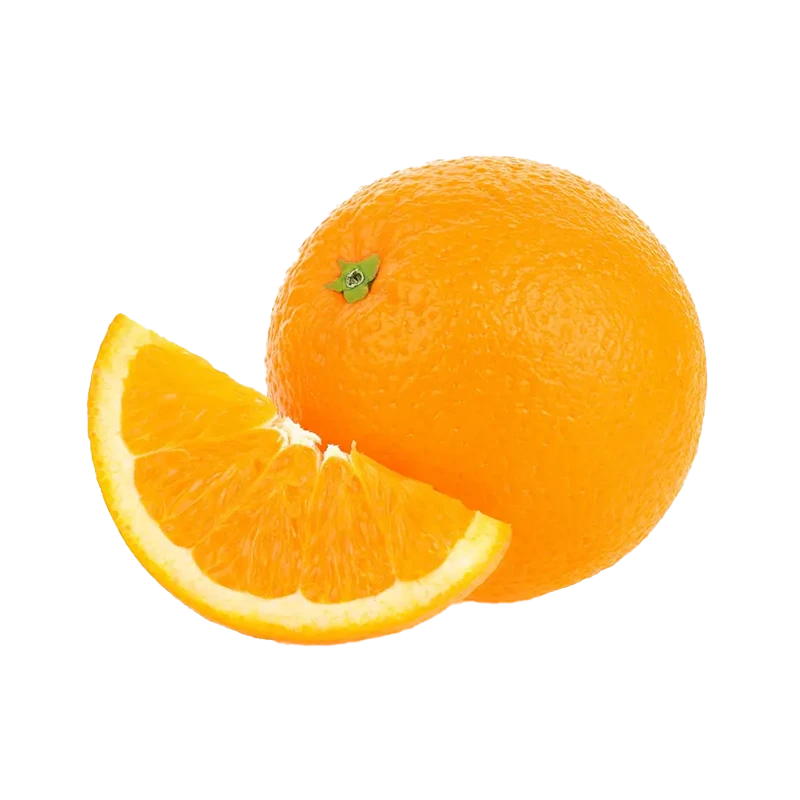
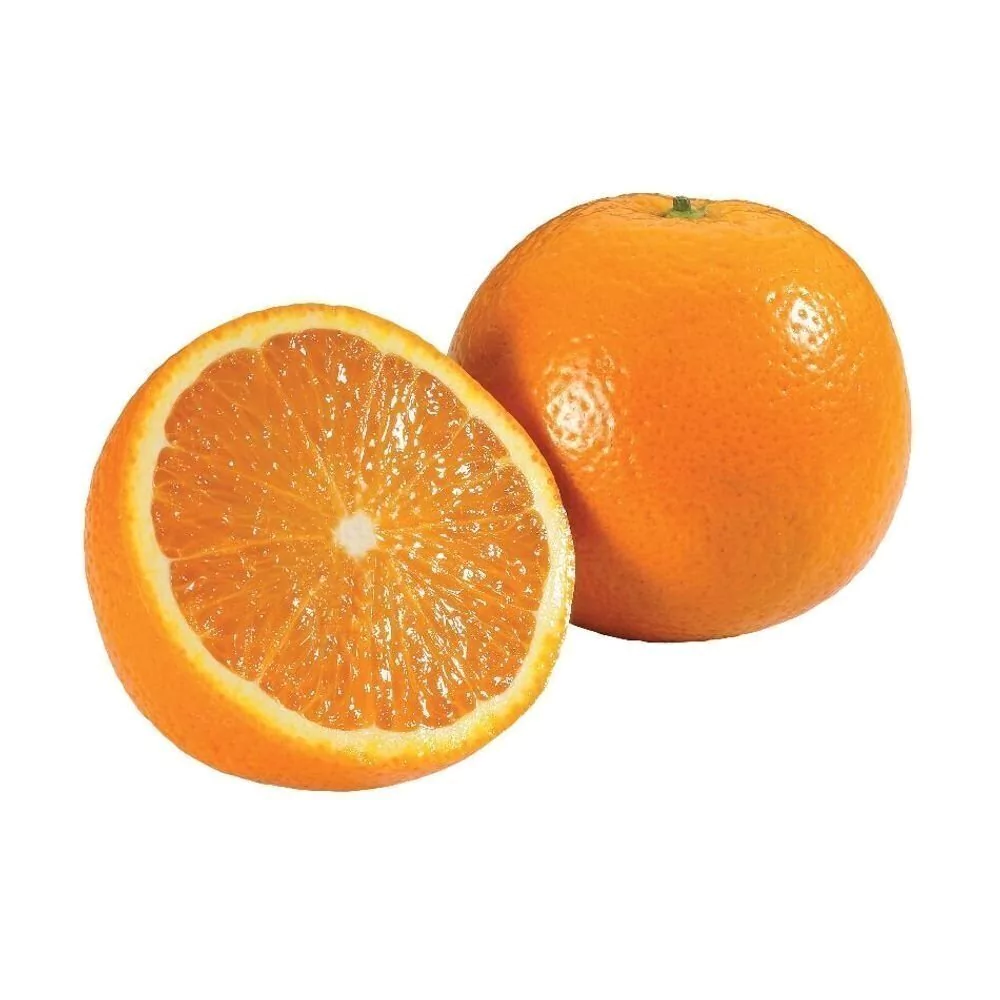
Cargar miniatura de Pimiento Rojo (unidad) y actualizar foto de naranja de jugo

diff --git a/app.js b/app.js
@@ -10,7 +10,7 @@ import {
 
 // Se incrementa manualmente cada vez que se reemplaza una imagen de producto,
 // para evitar que el navegador siga mostrando la versión vieja cacheada.
-const VERSION_IMAGENES = 13;
+const VERSION_IMAGENES = 14;
 
 // ---------------------------------------------------------------
 // Reglas de negocio del descuento
